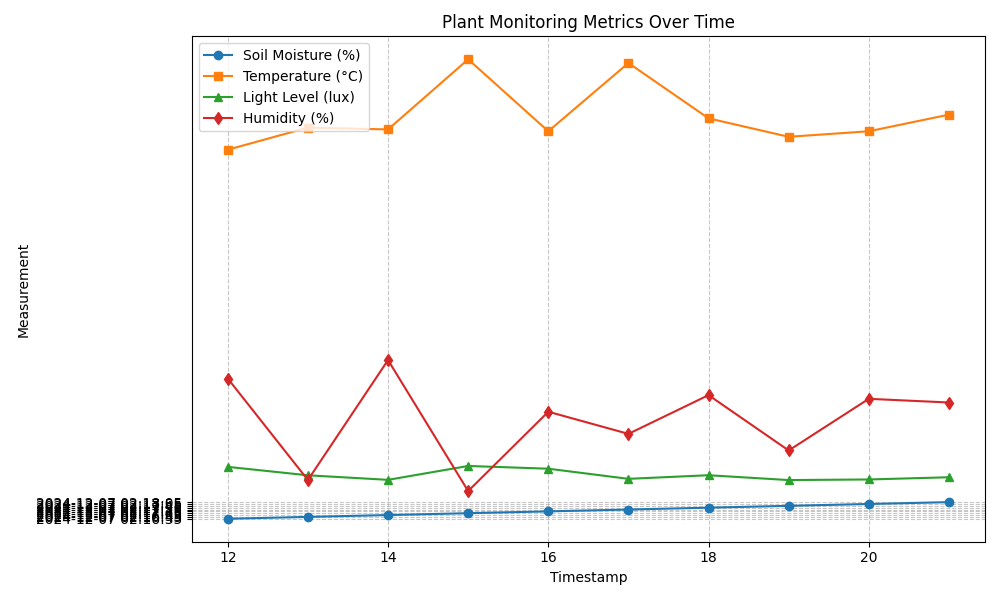
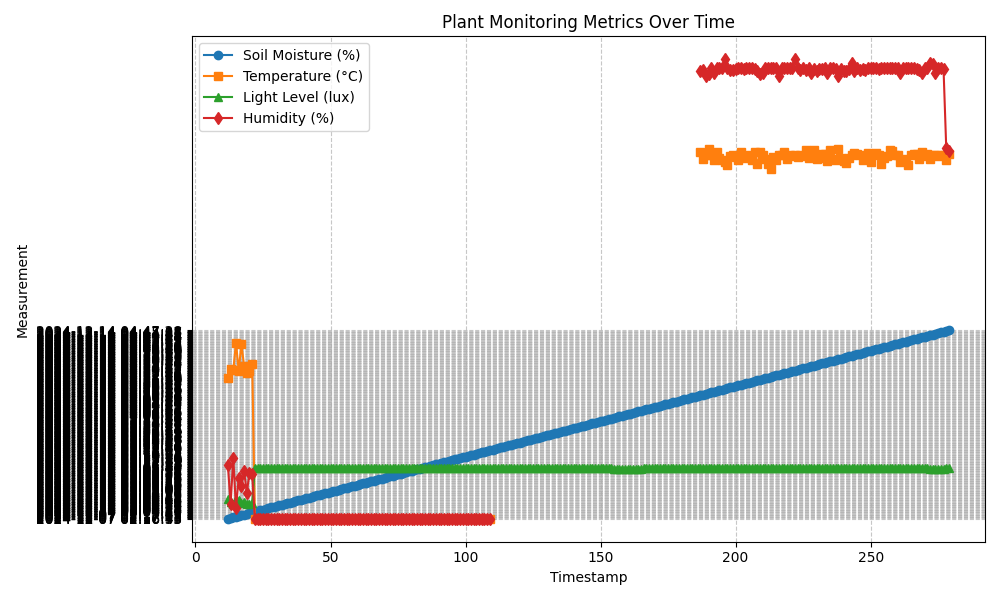
updated the graph and added a sensor-data to receive data

diff --git a/templates/index.html b/templates/index.html
@@ -5,6 +5,9 @@
     <title>Flask and Bootstrap</title>
     <!-- Bootstrap CSS CDN -->
     <link href="https://cdn.jsdelivr.net/npm/bootstrap@5.1.3/dist/css/bootstrap.min.css" rel="stylesheet">
+    <!-- Plotly JS -->
+    <script src="https://cdn.plot.ly/plotly-latest.min.js"></script>
+    <!-- jQuery -->
     <script src="https://code.jquery.com/jquery-3.6.0.min.js"></script>
 </head>
 <body>
@@ -13,8 +16,8 @@
         <div class="row align-items-center">
             <div class="col">
                 <div class="text-left mb-4">
-                    <img src="{{ url_for('static', filename='images/monstera-image.jpg') }}" class="img-fluid rounded mb-3" alt="Monstera Deliciosa plant" style="max-width: 200px;">
-                    <h3 class="text-success mt-3" id="plant-name">Monstera Deliciosa</h3>
+                    <img src="{{ url_for('static', filename='images/basil.jpeg') }}" class="img-fluid rounded mb-3" alt="Basil plant" style="max-width: 200px;">
+                    <h3 class="text-success mt-3" id="plant-name">Basil Plant</h3>
                 </div>
                 <p class="lead" id="Main-Content">Content found: {{content}}</p>
             </div>
@@ -22,53 +25,13 @@
                 <div class="text-left mb-4">
                     <h3 class="text-primary mt-3" id="graph-header">Plant Health Graph</h3>
                 </div>
-                <p class="lead" id="graph-content">Graph content found: {{graph_content | safe}}</p>
+                <!-- Render the graph content passed from Flask -->
+                <div id="plot">{{ graph_content | safe }}</div>
             </div>
         </div>
     </div>
 
-    <script>
-        $.ajax({
-            url: 'http://169.234.44.62:8080/get-data',
-            method: 'GET',
-            dataType: 'json',
-            success: function(data) {
-                console.log('AJAX success:', data);
-                // data is array of array [[]]
-                $('#Main-Content').html(format_data(data));
-            },
-            error: function(xhr, status, error) {
-              console.error('AJAX error:', error);
-            }
-          });
-
-
-        function format_data(data) {
-            let nested_data = data[0];
-
-            let soilMoisture = nested_data[2];
-            let temperature = nested_data[3];
-            let light = nested_data[4];
-            let humidity = nested_data[5];
-
-            console.log(soilMoisture, temperature, light, humidity);
-
-            let formatted_data = `
-                <p>Soil Moisture: ${soilMoisture}</p>
-                <p>Temperature: ${temperature}</p>
-                <p>Light: ${light}</p> 
-                <p>Humidity: ${humidity}</p>
-            `;
-
-            return formatted_data;
-        }
-    </script>
-
-
     <!-- Bootstrap JS and dependencies via CDN -->
     <script src="https://cdn.jsdelivr.net/npm/bootstrap@5.1.3/dist/js/bootstrap.bundle.min.js"></script>
-    <!-- jQuery via CDN -->
-    <script src="https://code.jquery.com/jquery-3.6.0.min.js"></script>
-
 </body>
 </html>

diff --git a/server.py b/server.py
@@ -6,7 +6,7 @@ import time
 import plotly.graph_objects as go
 
 
-# Connect to SQLite database
+# connect to sql
 def init_db():
     conn = sqlite3.connect('plant_data.db')
     cursor = conn.cursor()
@@ -23,25 +23,25 @@ def init_db():
     conn.commit()
     conn.close()
 
-def populate_db_with_test_data():
-    conn = sqlite3.connect('plant_data.db')
-    cursor = conn.cursor()
+# def populate_db_with_test_data():
+#     conn = sqlite3.connect('plant_data.db')
+#     cursor = conn.cursor()
 
-    for _ in range(10):
-        soil_moisture = random.randint(200, 250)
-        temperature = random.uniform(20, 30)
-        light_level = random.randint(0, 100)
-        humidity = random.uniform(40, 60)
-        cursor.execute('''
-            INSERT INTO sensor_data (soil_moisture, temperature, light_level, humidity)
-            VALUES (?, ?, ?, ?)
-        ''', (soil_moisture, temperature, light_level, humidity))
+#     for _ in range(10):
+#         soil_moisture = random.randint(200, 250)
+#         temperature = random.uniform(20, 30)
+#         light_level = random.randint(0, 100)
+#         humidity = random.uniform(40, 60)
+#         cursor.execute('''
+#             INSERT INTO sensor_data (soil_moisture, temperature, light_level, humidity)
+#             VALUES (?, ?, ?, ?)
+#         ''', (soil_moisture, temperature, light_level, humidity))
 
-        time.sleep(10)
+#         time.sleep(10)
 
 
-    conn.commit()
-    conn.close()
+#     conn.commit()
+#     conn.close()
 
 def clean_db():
     conn = sqlite3.connect('plant_data.db')
@@ -55,57 +55,50 @@ def clean_db():
 
 
 def create_interactive_plot():
-    # Connect to the SQLite database
     conn = sqlite3.connect('plant_data.db')
     cursor = conn.cursor()
-    cursor.execute('SELECT * FROM sensor_data')
+    cursor.execute('SELECT * FROM sensor_data ORDER BY timestamp DESC LIMIT 30')
     rows = cursor.fetchall()
     conn.close()
 
-    # Initialize lists for each metric
     timestamps = []
     soil_moisture = []
     temperature = []
     light_level = []
     humidity = []
 
-    # Parse the rows from the database
     for row in rows:
 
-        timestamps.append(row[1])  # Assuming row[0] is a timestamp
+        timestamps.append(row[1]) 
         soil_moisture.append(row[2])
         temperature.append(row[3])
         light_level.append(row[4])
         humidity.append(row[5])
 
-    # Create the Plotly figure
     fig = go.Figure()
-
-    # Add the lines for each metric
     fig.add_trace(go.Scatter(x=timestamps, y=soil_moisture, mode='lines+markers', name='Soil Moisture (%)'))
     fig.add_trace(go.Scatter(x=timestamps, y=temperature, mode='lines+markers', name='Temperature (°C)'))
     fig.add_trace(go.Scatter(x=timestamps, y=light_level, mode='lines+markers', name='Light Level (lux)'))
     fig.add_trace(go.Scatter(x=timestamps, y=humidity, mode='lines+markers', name='Humidity (%)'))
 
-    # Update the layout for better readability and interactivity
     fig.update_layout(
         title='Plant Monitoring Metrics Over Time',
         xaxis_title='Timestamp',
         yaxis_title='Measurement',
         xaxis=dict(
-            tickmode='auto',  # Auto scaling of the ticks
-            nticks=20,  # Number of ticks on the x-axis (can adjust this)
+            tickmode='auto',
+            nticks=20, 
             showgrid=True,
-            tickangle=45  # Rotate the x-axis labels
+            tickangle=45 
         ),
         yaxis=dict(
             showgrid=True
         ),
         legend=dict(
-            x=0.01,  # Position the legend
+            x=0.01,
             y=0.99
         ),
-        hovermode='closest'  # Enable hover to display exact data point values
+        hovermode='closest'
     )
 
     graph_html = fig.to_html(full_html=False)
@@ -115,45 +108,39 @@ def create_interactive_plot():
 
 
 def create_static_plot():
-    # Connect to the SQLite database
+    print("I AM HERE")
     conn = sqlite3.connect('plant_data.db')
     cursor = conn.cursor()
     cursor.execute('SELECT * FROM sensor_data')
     rows = cursor.fetchall()
     conn.close()
 
-    # Initialize lists for each metric
-    timestamps = []  # Assuming timestamp is the first column
+    timestamps = [] 
     soil_moisture = []
     temperature = []
     light_level = []
     humidity = []
 
-    # Parse the rows from the database
     for row in rows:
-        timestamps.append(row[0])  # Assuming row[0] is a timestamp
+        timestamps.append(row[0]) 
         soil_moisture.append(row[1])
         temperature.append(row[2])
         light_level.append(row[3])
         humidity.append(row[4])
 
-    # Create the plot
     plt.figure(figsize=(10, 6))
     plt.plot(timestamps, soil_moisture, label='Soil Moisture (%)', marker='o')
     plt.plot(timestamps, temperature, label='Temperature (°C)', marker='s')
     plt.plot(timestamps, light_level, label='Light Level (lux)', marker='^')
     plt.plot(timestamps, humidity, label='Humidity (%)', marker='d')
 
-    # Label axes and add title
     plt.xlabel('Timestamp')
     plt.ylabel('Measurement')
     plt.title('Plant Monitoring Metrics Over Time')
 
-    # Add legend and grid
     plt.legend(loc='upper left')
     plt.grid(True, linestyle='--', alpha=0.7)
 
-    # Save the plot as an image
     plt.tight_layout()
     plt.savefig('static/images/plot.png')
     plt.close()
@@ -165,7 +152,7 @@ app = Flask(__name__)
 def index():
     data = str(request.args.get("var"))
     html_plot = create_interactive_plot()
-    return render_template('index.html', content = data, graph_content = html_plot)
+    return render_template('index.html', content=data, graph_content=html_plot)
 
 @app.route('/get-data', methods=['GET'])
 def get_data():
@@ -175,6 +162,28 @@ def get_data():
     rows = cursor.fetchall()
     conn.close()
     return jsonify(rows)
+
+@app.route('/sensor-data', methods=['POST'])
+def receive_sensor_data():
+    print("here")
+    data = request.get_json()
+
+    soil_moisture = data.get('soil_moisture')
+    temperature = data.get('temperature')
+    light_level = data.get('light_level')
+    humidity = data.get('humidity')
+
+    conn = sqlite3.connect('plant_data.db')
+    cursor = conn.cursor()
+    cursor.execute('''
+        INSERT INTO sensor_data (soil_moisture, temperature, light_level, humidity)
+        VALUES (?, ?, ?, ?)
+    ''', (soil_moisture, temperature, light_level, humidity))
+    conn.commit()
+    conn.close()
+
+    return jsonify({'message': 'Data received and saved successfully'}), 200
+
 
 if __name__ == '__main__':
     #init_db()
